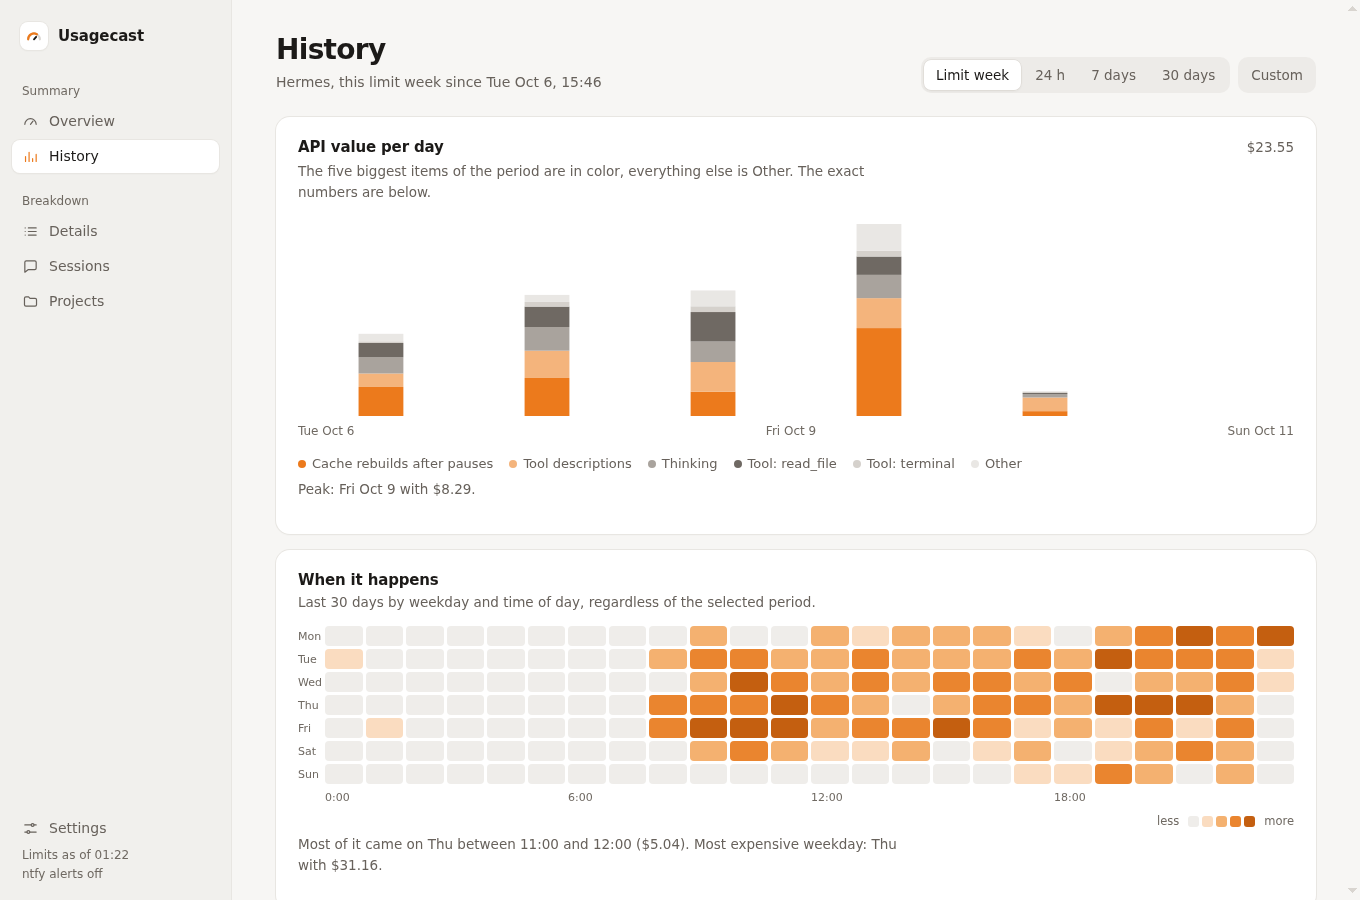
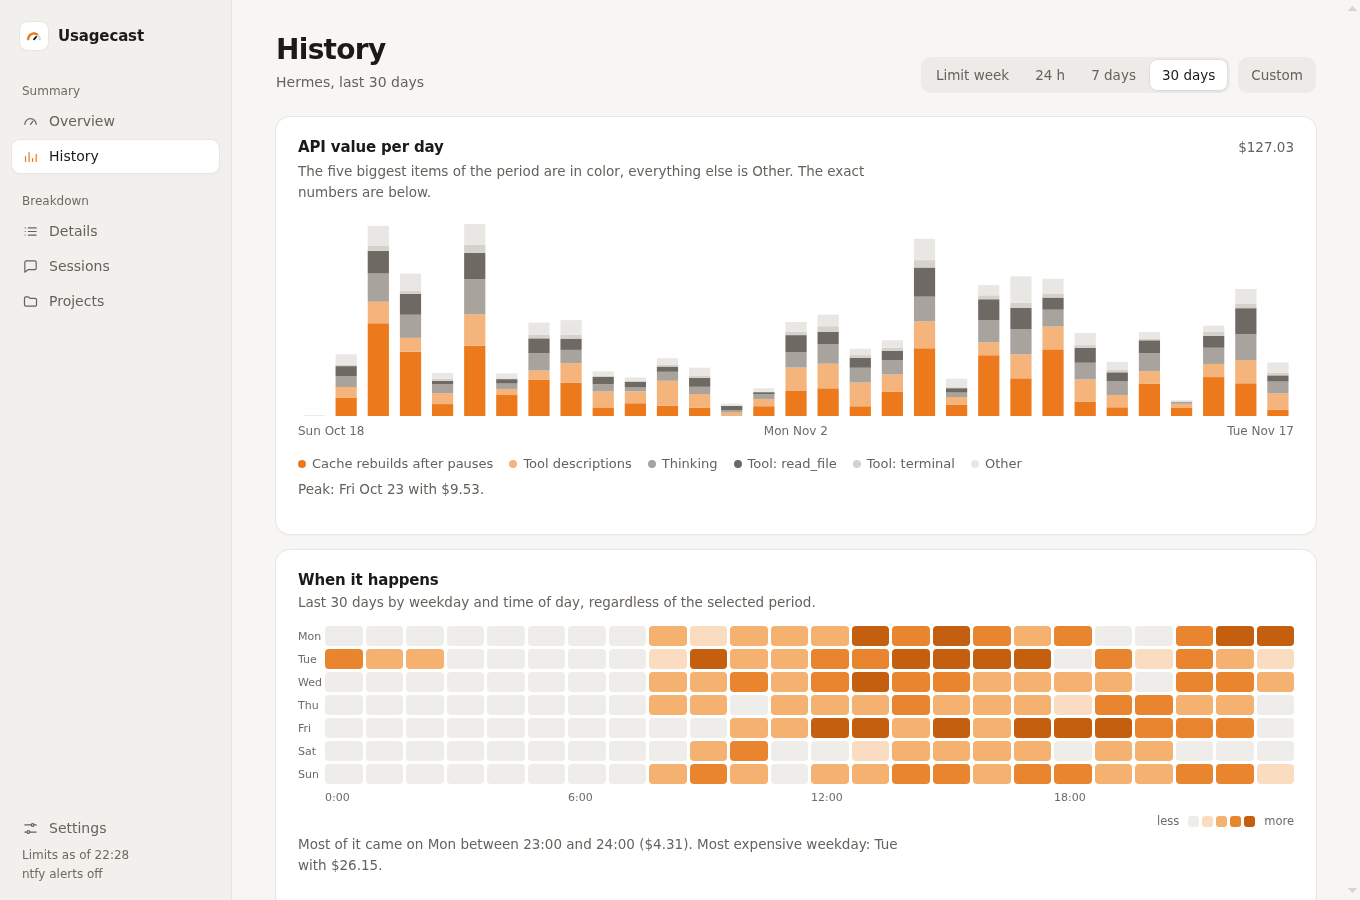
README: several accounts, Right now, models and the mascot; Hermes profiles are read together by default; fresh demo screenshots (overview with mascot and two accounts, 30-day history, phone dark)

diff --git a/README.de.md b/README.de.md
@@ -7,31 +7,31 @@
 Selbst gehostetes Dashboard, das zeigt, was deine KI-Usage frisst. Im Moment liest es
 [Hermes Agent](https://github.com/NousResearch/hermes-agent) mit Anthropic Claude und schlüsselt die Kosten auf: jedes
 Tool, jeder Skill, jedes Plugin, jeder Teil des Systemprompts, Denken, Hintergrund-Prüfung, Cache-Neuaufbau nach Pausen
-und Cache-Brüche. Dazu kommen die Abo-Limits (5 Stunden, Woche, Extra-Guthaben) mit Prognose, Warnungen aufs Handy und
+und Cache-Brüche. Dazu kommen die Abo-Limits (5 Stunden, Woche, Extra-Guthaben, für jedes Claude-Konto im Pool von Hermes) mit Prognose, Warnungen aufs Handy und
 konkrete Spartipps aus den eigenen Daten, mit dem `hermes`-Befehl, der sie umsetzt.
 
-Nur Python-Standardbibliothek. Es liest `~/.hermes/state.db` und `~/.hermes/logs/agent.log*` nur lesend. Keine KI:
+Nur Python-Standardbibliothek. Es liest `~/.hermes/state.db` und `~/.hermes/logs/agent.log*` nur lesend, auch die jedes Hermes-Profils. Keine KI:
 Rangliste, Aufteilung, Prognose und Spartipps sind feste Rechenregeln, es geht nie eine Anfrage an ein Modell raus.
 
 Läuft mit jeder Hermes-Installation. Welche Plugins und welcher Memory-Anbieter aktiv sind, liest es aus `config.yaml`
 (`plugins.enabled`, `memory.provider`) und ordnet deren Teile im Systemprompt und an den Nachrichten danach zu.
 SOUL.md, Hermes' eigene Hinweise und die Herkunft (Telegram, Discord, Slack, Cron-Jobs ...) erkennt es ebenfalls selbst.
 
-![Übersicht: Wochenlimit mit Tempo und Tagesbudget, 5-Stunden-Fenster, Kennzahlen](docs/overview.png)
+![Übersicht: Wochenlimit mit Tempo, Tagesbudget und Maskottchen, 5-Stunden-Fenster, Extra-Guthaben, darunter ein zweites Konto](docs/overview.png)
 
-Ohne Hermes ausprobieren: `python3 app.py --demo` startet es mit einem Monat erfundener Daten.
+Ohne Hermes ausprobieren: `python3 app.py --demo` startet es mit einem Monat erfundener Daten und zwei Konten.
 
 ## Seiten
 
 | Seite | Inhalt |
 |---|---|
-| `/` | Limits mit Tempo, Tagesbudget und Prognose, Kennzahlen mit Vergleich zur Vorwoche, Rangliste was am meisten frisst, Bots & Chats (eine Zeile pro Bot, antippen zeigt Themen, Kanäle und Threads), Modelle, Spartipps |
+| `/` | Limits pro Konto mit Tempo, Tagesbudget, Prognose und Maskottchen, Gerade jetzt (arbeitende Agenten und ihr Modell), Kennzahlen mit Vergleich zur Vorwoche, Rangliste was am meisten frisst, Bots & Chats (eine Zeile pro Bot, antippen zeigt Themen, Kanäle und Threads), Modelle, Spartipps |
 | `/history` | Kosten pro Tag nach den größten Posten mit Markern für Hermes-Updates und Config-Änderungen, diese Woche über den drei davor, Heatmap nach Wochentag und Uhrzeit, Aktivitätskalender, Tagestabelle |
 | `/details` | Alle Tools, Skills, Plugins, Systemprompt-Teile und Tool-Beschreibungen einzeln, Cache-Brüche mit wahrscheinlicher Ursache, die zehn teuersten einzelnen Tool-Ergebnisse |
-| `/sessions` | Teuerste Sessions mit Bot · Chat und letzter Aktivität unter jedem Titel, einem Chip pro Bot, Chat-Filter und Suche; der Chip Cron-Jobs zeigt Kosten pro Lauf und Woche. Eine Session-Seite zeigt jeden Schritt, die gestarteten Subagenten mit ihren Kosten und den Befehl `hermes --resume <id>` |
+| `/sessions` | Teuerste Sessions mit Bot · Chat, Modell und letzter Aktivität unter jedem Titel, einem Chip pro Bot, Chat-Filter und Suche; der Chip Cron-Jobs zeigt Kosten pro Lauf und Woche. Eine Session-Seite zeigt jeden Schritt, das Modell, die gestarteten Subagenten mit Modell und Kosten und den Befehl `hermes --resume <id>` |
 | `/projects` | Kosten pro Projekt, antippen zeigt die Sessions dazu |
 | `/settings` | Eine kurze Liste mit je einer Seite: Darstellung, Warnungen, Benachrichtigungen, Budget-Wächter, Erweitert |
-| `/api/summary` | Limits, Prognose und Kosten der Limit-Woche als JSON, für Widgets |
+| `/api/summary` | Limits, Prognose, Konten und Kosten der Limit-Woche als JSON, für Widgets |
 
 Zeitraum per `?p=w` (seit dem letzten Reset des Wochenlimits, Standard), `?p=1`, `?p=7`, `?p=30` oder ein eigener
 Zeitraum wie `?p=2026-10-01..2026-10-07` (Knopf „Eigener“).
@@ -42,6 +42,20 @@ Hell und dunkel folgen der Systemeinstellung. Auf dem iPhone in Safari öffnen u
 startet es wie eine App.
 
 <img src="docs/phone-dark.png" width="260" alt="Übersicht auf dem Handy im Dunkelmodus, mit der Tab-Leiste unten">
+
+**Mehrere Konten:** Liegen im Anmelde-Pool von Hermes mehrere Claude-Konten, bekommt jedes einen eigenen Block, gelesen
+mit seiner eigenen Anmeldung. Ein Etikett zeigt, welches gerade in Benutzung ist (Verbrauch oder Anfragen sind in den
+letzten 30 Minuten gestiegen), welches Hermes als Nächstes nimmt und welches am Limit steht. Warnungen laufen pro Konto,
+der Budget-Wächter greift erst, wenn alle Konten knapp sind. Mit einem Konto sieht alles aus wie vorher.
+
+**Gerade jetzt:** Die Agenten, die in diesem Moment arbeiten, mit Bot · Chat, was sie tun, wie lange schon und mit
+welchem Modell, dazu ihre Subagenten. Aktualisiert sich alle 5 Sekunden, solange die Seite offen ist, und warnt, wenn
+das Hermes-Gateway nicht läuft.
+
+**Maskottchen:** Neben der großen Wochenzahl sitzt ein animierter Begleiter: Terminal, Debug-Ente, Server-Rack, Kaffee
+oder Bot. Er folgt dem 5-Stunden-Fenster (ohne eins der Woche) und hat vier Stimmungen: ruhig, ein Agent arbeitet, knapp
+(85 % oder knappe Prognose) und schlafend am Limit. Kaffeestand und Bot-Akku zeigen, was übrig ist. Er folgt hell und
+dunkel und steht still bei reduzierter Bewegung. Auswählen oder ausschalten unter Einstellungen > Darstellung.
 
 ## Sprachen
 
@@ -99,13 +113,14 @@ in Geld auch als Anteil der Woche anzeigen.
 ## Einstellungen
 
 `/settings` ist eine kurze Liste, jede Zeile öffnet ihre eigene Seite: **Darstellung** (hell, dunkel oder System,
-Sprache, USD oder EUR zum Tageskurs der EZB, Zahlen kurz oder voll, Standard-Zeitraum, Limits verbraucht oder übrig,
+Sprache, Maskottchen, USD oder EUR zum Tageskurs der EZB, Zahlen kurz oder voll, Standard-Zeitraum, Limits verbraucht oder übrig,
 Kosten in Geld oder in % der Woche), **Warnungen** (jede einzeln mit Schwelle, Ruhezeiten), **Benachrichtigungen** (ntfy
 oder Telegram, siehe unten), **Budget-Wächter** und **Erweitert** (andere Rechner, welcher Hermes-Ordner gelesen wird,
 eigener ntfy-Server, Dashboard-Adresse). Jede Seite speichert nur ihre eigenen Werte. Sie landen in
 `data/settings.json`, lesbar nur für den Besitzer; Umgebungsvariablen geben nur die Standardwerte vor. Gespeichert wird
-nur, wenn das Formular von Usagecasts eigener Seite kommt. Hat Hermes Profile (`hermes profile create`), wählst du unter
-Erweitert, welches ausgewertet wird; die Limits bleiben gleich, sie gehören zum Konto.
+nur, wenn das Formular von Usagecasts eigener Seite kommt. Standardmäßig liest Usagecast den Haupt-Ordner von
+Hermes und alle Profile (`hermes profile create`) zusammen; unter Erweitert lässt es sich auf eins beschränken. Die
+Limits bleiben gleich, sie gehören zum Konto.
 
 ## Warnungen per ntfy
 
@@ -147,12 +162,13 @@ dem Handy im Vollbild und bietet in den Einstellungen „Zum Home-Bildschirm“ 
 Auf `/settings/notify` wählt die Karte Telegram, welches Hermes den Bot stellt (Token und Chat aus dessen `.env`:
 `TELEGRAM_BOT_TOKEN`, `TELEGRAM_HOME_CHANNEL`), und auf Wunsch ein Thema. Dann gehen Warnungen an Telegram (Push über
 Telegram) mit einem Knopf „Öffnen“, der Menü-Knopf zeigt die Limits (`W 16% · 5h 68%`), und eine angepinnte Nachricht
-hält Woche, 5-Stunden-Fenster und arbeitende Agenten alle 10 Minuten aktuell.
+hält Woche, 5-Stunden-Fenster und arbeitende Agenten alle 10 Minuten aktuell. Bei mehreren Konten nennen beide das
+aktive.
 
 ## Widgets (iPhone, Home- und Sperrbildschirm)
 
 `widget/usagecast-widget.js` ist ein Skript für [Scriptable](https://scriptable.app), das Wochenlimit und
-5-Stunden-Fenster zeigt. In Scriptable ein neues Skript anlegen und den Inhalt einfügen, ein kleines Scriptable-Widget
+5-Stunden-Fenster des aktiven Kontos zeigt. In Scriptable ein neues Skript anlegen und den Inhalt einfügen, ein kleines Scriptable-Widget
 hinzufügen, das Skript wählen und die Dashboard-Adresse als „Parameter“ eintragen. Es liest `/api/summary`, das Handy
 muss das Dashboard also erreichen (zum Beispiel über Tailscale).
 

diff --git a/README.md b/README.md
@@ -7,31 +7,32 @@
 A self-hosted dashboard that shows what eats your AI usage. Right now it reads
 [Hermes Agent](https://github.com/NousResearch/hermes-agent) with Anthropic Claude and breaks the cost down into every
 tool, skill, plugin, system prompt part, thinking, background review, cache rebuilds after pauses and cache breaks. On
-top of that it shows your subscription limits (5 hours, week, extra credits) with a forecast, sends alerts to your phone
+top of that it shows your subscription limits (5 hours, week, extra credits, for every Claude account in Hermes' pool) with a
+forecast, sends alerts to your phone
 and gives concrete tips from your own data, with the `hermes` command that applies them.
 
-Pure Python standard library. It reads `~/.hermes/state.db` and `~/.hermes/logs/agent.log*` read-only. No AI involved:
+Pure Python standard library. It reads `~/.hermes/state.db` and `~/.hermes/logs/agent.log*` read-only, those of every Hermes profile too. No AI involved:
 ranking, breakdown, forecast and tips are fixed calculation rules, and no request ever goes to a model.
 
 It works with any Hermes installation. It reads the active plugins and memory provider from `config.yaml`
 (`plugins.enabled`, `memory.provider`) and assigns their parts of the system prompt and of your messages accordingly.
 It also detects SOUL.md, Hermes' own notes and where a session came from (Telegram, Discord, Slack, cron jobs ...).
 
-![Overview: weekly limit with pace and daily budget, 5-hour window, key figures](docs/overview.png)
+![Overview: weekly limit with pace, daily budget and the mascot, 5-hour window, extra credits, a second account below](docs/overview.png)
 
-Try it without Hermes: `python3 app.py --demo` starts it on a month of made-up data.
+Try it without Hermes: `python3 app.py --demo` starts it on a month of made-up data with two accounts.
 
 ## Pages
 
 | Page | Content |
 |---|---|
-| `/` | Limits with pace, daily budget and forecast, key figures with the change against last week, what eats the most, bots & chats (one row per bot, tap to see its topics, channels and threads), models, tips |
+| `/` | Limits per account with pace, daily budget, forecast and a mascot, Right now (agents at work and their model), key figures with the change against last week, what eats the most, bots & chats (one row per bot, tap to see its topics, channels and threads), models, tips |
 | `/history` | Cost per day by the biggest items with markers for Hermes updates and config changes, this week laid over the three before, heatmap by weekday and hour, activity calendar, day-by-day table |
 | `/details` | Every tool, skill, plugin, system prompt part and tool description on its own, cache breaks with their likely cause, the ten most expensive single tool results |
-| `/sessions` | Most expensive sessions with bot · chat and last activity under each title, a chip per bot, a chat filter and search; the cron chip shows cost per run and per week. A session page shows every step, the subagents it started with their cost, and the `hermes --resume <id>` command |
+| `/sessions` | Most expensive sessions with bot · chat, model and last activity under each title, a chip per bot, a chat filter and search; the cron chip shows cost per run and per week. A session page shows every step, the model, the subagents it started with their model and cost, and the `hermes --resume <id>` command |
 | `/projects` | Cost per project, tap one to see its sessions |
 | `/settings` | A short list with one page each: appearance, alerts, notifications, budget guard, advanced |
-| `/api/summary` | Limits, forecast and this limit week's cost as JSON, for widgets |
+| `/api/summary` | Limits, forecast, accounts and this limit week's cost as JSON, for widgets |
 
 Period with `?p=w` (since the last weekly limit reset, default), `?p=1`, `?p=7`, `?p=30` or a custom range like
 `?p=2026-10-01..2026-10-07` (the "Custom" button).
@@ -42,6 +43,20 @@ Light and dark mode follow the system setting. On an iPhone, open it in Safari a
 it like an app.
 
 <img src="docs/phone-dark.png" width="260" alt="Overview on a phone in dark mode, with the tab bar at the bottom">
+
+**Several accounts:** When Hermes' credential pool holds more than one Claude account, each one gets its own block,
+read with its own login. A badge says which one is in use (its usage or request count rose in the last 30 minutes),
+which one Hermes picks next and which one sits at its limit. Alerts run per account, and the budget guard only steps in
+when every account is tight. With one account everything looks as before.
+
+**Right now:** The agents working at this moment with bot · chat, what they are doing, for how long and on which model,
+plus the subagents they started. It refreshes every 5 seconds while the page is open and warns when the Hermes gateway
+is down.
+
+**Mascot:** Beside the big weekly number sits an animated companion: terminal, debug duck, server rack, coffee or bot. It
+follows the 5-hour window (the week if your plan has none) and shows four moods: calm, an agent is working, tight (85 %
+or a tight forecast) and asleep at the limit. Coffee level and bot battery show what is left. It follows light and dark
+mode and stands still with reduced motion. Pick one or turn it off under Settings > Appearance.
 
 ## Languages
 
@@ -95,14 +110,14 @@ of money.
 
 ## Settings
 
-`/settings` is a short list, each row opens its own page: **Appearance** (light, dark or system, language, USD or EUR at
+`/settings` is a short list, each row opens its own page: **Appearance** (light, dark or system, language, mascot, USD or EUR at
 the ECB daily rate, compact or full numbers, default period, limits as used or left, costs as money or as % of the
 week), **Alerts** (every alert on its own with its threshold, quiet hours), **Notifications** (ntfy or Telegram, see
 below), **Budget guard** and **Advanced** (other machines, which Hermes home is read, your own ntfy server, the
 dashboard address). Each page saves only its own values. They go to `data/settings.json`, readable only by its owner;
-environment variables only set the defaults. A form saves only when it was sent from Usagecast's own page. If Hermes has
-profiles (`hermes profile create`), Advanced chooses which one is analysed; the limits stay the same, they belong to
-the account.
+environment variables only set the defaults. A form saves only when it was sent from Usagecast's own page. By default
+Usagecast reads the main Hermes home and every profile (`hermes profile create`) together; Advanced narrows it to one.
+The limits stay the same, they belong to the account.
 
 ## Alerts via ntfy
 
@@ -142,12 +157,12 @@ offers "Add to home screen" in the settings.
 Under `/settings/notify`, the Telegram card picks the Hermes home whose bot to use (token and chat come from its `.env`:
 `TELEGRAM_BOT_TOKEN`, `TELEGRAM_HOME_CHANNEL`) and optionally a topic. Then alerts can go to Telegram (Push via
 Telegram) with an "Open" button, the menu button shows the limits (`W 16% · 5h 68%`), and one pinned message keeps the
-week, the 5-hour window and the agents at work up to date every 10 minutes.
+week, the 5-hour window and the agents at work up to date every 10 minutes. With several accounts, both name the one in use.
 
 ## Widgets (iPhone home screen and Lock Screen)
 
 `widget/usagecast-widget.js` is a [Scriptable](https://scriptable.app) script that shows the weekly limit and the 5-hour
-window. Copy it into a new script in Scriptable, add a small Scriptable widget, pick the script and put your dashboard
+window of the account in use. Copy it into a new script in Scriptable, add a small Scriptable widget, pick the script and put your dashboard
 address into "Parameter". It reads `/api/summary`, so the phone has to reach the dashboard (for example over Tailscale).
 
 The same script works on the Lock Screen (iOS 16 or later): long-press the Lock Screen, tap "Customize", pick the Lock
